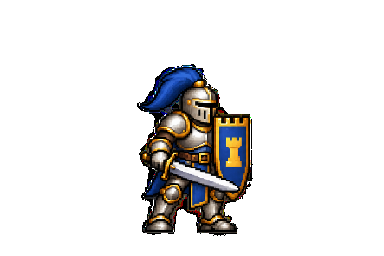
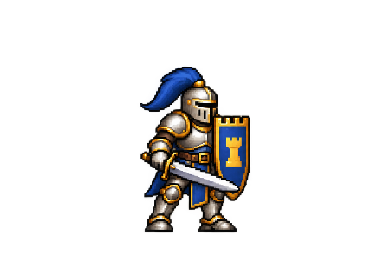
fix: restore original alpha on Blue Rook idle sprites

Changed region(s): [[0.3438, 0.25, 0.5312, 0.9375], [0.5312, 0.625, 0.6562, 0.9375], [0.5312, 0.3125, 0.6562, 0.5]]

diff --git a/web-demo/index.html b/web-demo/index.html
@@ -22,7 +22,7 @@
     </section>
     <aside class="controls">
      <div class="section-label"><span>01</span> CHOOSE YOUR CHARACTER</div>
-     <button class="character" data-character="rook" aria-pressed="false" disabled><span class="portrait blue"><img src="assets/rook-v2/idle/idle-01.png" alt=""></span><span><strong>The Blue Rook</strong><small>STEADFAST · HUMAN</small></span><span class="select-dot"></span></button>
+     <button class="character" data-character="rook" aria-pressed="false" disabled><span class="portrait blue"><img src="assets/rook-v2/idle/idle-01.png?v=alpha-restored-1" alt=""></span><span><strong>The Blue Rook</strong><small>STEADFAST · HUMAN</small></span><span class="select-dot"></span></button>
      <button class="character" data-character="knight" aria-pressed="true" disabled><span class="portrait red"><img src="assets/knight/idle/idle-01.png" alt=""></span><span><strong>The Crimson Knight</strong><small>RESTLESS · UNDEAD</small></span><span class="select-dot"></span></button>
      <button class="character" data-character="tower" aria-pressed="false" disabled><span class="portrait blue"><img src="assets/tower/idle/idle-01.png" alt=""></span><span><strong>The Royal Tower</strong><small>RESOLUTE · IVORY</small></span><span class="select-dot"></span></button>
      <button class="character" data-character="tower-black" aria-pressed="false" disabled><span class="portrait red"><img src="assets/tower-black/idle/idle-01.png" alt=""></span><span><strong>The Dread Tower</strong><small>RELENTLESS · BASALT</small></span><span class="select-dot"></span></button>

diff --git a/web-demo/game.js b/web-demo/game.js
@@ -31,11 +31,12 @@ window.__livingChessReady = (async () => {
     scenery = createCourtyardMotion(flames,flags,cleanPlate,courtyard);
     await Promise.all(['rook', 'knight', 'tower', 'tower-black'].map(async id => {
       const folder = id === 'rook' ? 'rook-v2' : id;
-      const response = await fetch(`assets/${folder}/${id.startsWith('tower') ? 'tower' : id}-animation.json`);
+      const revision = id === 'rook' ? '?v=alpha-restored-1' : '';
+      const response = await fetch(`assets/${folder}/${id.startsWith('tower') ? 'tower' : id}-animation.json${revision}`);
       if (!response.ok) throw new Error('Could not load character information.');
       const meta = await response.json(), frames = {};
       await Promise.all(Object.entries(meta.animations).map(async ([name, spec]) => {
-        frames[name] = await Promise.all(Array.from({ length: spec.frames }, (_, i) => loadImage(`assets/${folder}/${name}/${name}-${String(i + 1).padStart(2, '0')}.png`)));
+        frames[name] = await Promise.all(Array.from({ length: spec.frames }, (_, i) => loadImage(`assets/${folder}/${name}/${name}-${String(i + 1).padStart(2, '0')}.png${revision}`)));
         totalFrames += frames[name].length;
       }));
       assets[id] = { meta, frames };

diff --git a/web-demo/scripts/restore-blue-alpha.py b/web-demo/scripts/restore-blue-alpha.py
@@ -1,0 +1,113 @@
+"""Rebuild the original blue export while retaining the source transparency.
+
+The legacy exporter used an opaque connected-component selection mask as the
+sprite alpha. That made pixels with source alpha 1/255 as dark as solid ink.
+The mask here selects a frame; it never replaces the source alpha channel.
+Requires Pillow. Original generated masters are preserved, never overwritten.
+"""
+from pathlib import Path
+import argparse
+import hashlib
+import json
+from PIL import Image
+
+
+def components(alpha):
+    width, height = alpha.size
+    pixels = alpha.load()
+    seen = bytearray(width * height)
+    groups = []
+    for y in range(height):
+        for x in range(width):
+            index = y * width + x
+            if seen[index] or pixels[x, y] == 0:
+                continue
+            points, queue = [], [(x, y)]
+            seen[index] = 1
+            while queue:
+                px, py = queue.pop()
+                points.append((px, py))
+                for nx, ny in ((px-1, py), (px+1, py), (px, py-1), (px, py+1)):
+                    if 0 <= nx < width and 0 <= ny < height:
+                        ni = ny * width + nx
+                        if not seen[ni] and pixels[nx, ny]:
+                            seen[ni] = 1
+                            queue.append((nx, ny))
+            groups.append(points)
+    return groups
+
+
+def extract_row(row):
+    source_alpha = row.getchannel('A')
+    found = components(source_alpha)
+    mains = sorted(found, key=len, reverse=True)[:4]
+    assert len(mains) == 4, 'Expected four poses in each source row'
+    mains.sort(key=lambda points: sum(x for x, y in points) / len(points))
+    bounds = [(min(x for x, y in p), min(y for x, y in p),
+               max(x for x, y in p), max(y for x, y in p)) for p in mains]
+    groups = [[] for _ in range(4)]
+    for points in found:
+        if len(points) < 12:
+            continue
+        cx = sum(x for x, y in points) / len(points)
+        cy = sum(y for x, y in points) / len(points)
+        def distance(i):
+            left, top, right, bottom = bounds[i]
+            return max(left-cx, 0, cx-right)**2 + max(top-cy, 0, cy-bottom)**2
+        groups[min(range(4), key=distance)].extend(points)
+    frames = []
+    for i, points in enumerate(groups):
+        alpha = Image.new('L', row.size)
+        dest, original = alpha.load(), source_alpha.load()
+        for x, y in points:
+            dest[x, y] = original[x, y]
+        bbox = alpha.getbbox()
+        sprite = row.copy()
+        sprite.putalpha(alpha)
+        sprite = sprite.crop(bbox)
+        sprite = sprite.resize((round(sprite.width/2), round(sprite.height/2)), Image.Resampling.NEAREST)
+        x = 192 + round((bbox[0] - (i+.5)*row.width/4)/2)
+        y = 236 - sprite.height
+        frame = Image.new('RGBA', (384, 256))
+        frame.alpha_composite(sprite, (x, y))
+        frames.append(frame)
+    return frames
+
+
+def rebuild(source, output):
+    output.mkdir(parents=True, exist_ok=True)
+    report = []
+    for name in ('idle',):
+        path = source / f'blue-{name}.png'
+        master = Image.open(path)
+        assert master.mode == 'RGBA', f'{path} must retain its generated alpha'
+        split = 520 if name == 'death' else round(master.height/2)
+        frames = extract_row(master.crop((0, 0, master.width, split)))
+        frames += extract_row(master.crop((0, split, master.width, master.height)))
+        first = frames[0].getchannel('A').getbbox()
+        factor = 170/(first[3]-first[1])
+        (output/name).mkdir(exist_ok=True)
+        for i, frame in enumerate(frames):
+            bbox = frame.getchannel('A').getbbox()
+            sprite = frame.crop(bbox)
+            sprite = sprite.resize((round(sprite.width*factor), round(sprite.height*factor)), Image.Resampling.NEAREST)
+            x = 192 + round((bbox[0]-192)*factor)
+            y = 236 - sprite.height
+            assert x >= 8 and y >= 8 and x+sprite.width <= 376
+            out = Image.new('RGBA', (384, 256))
+            out.alpha_composite(sprite, (x, y))
+            target = output/name/f'{name}-{i+1:02d}.png'
+            out.save(target)
+            report.append({'file': str(target.relative_to(output)),
+                           'sha256': hashlib.sha256(target.read_bytes()).hexdigest(),
+                           'sourceSha256': hashlib.sha256(path.read_bytes()).hexdigest(),
+                           'bbox': out.getchannel('A').getbbox()})
+    (output/'alpha-restoration.json').write_text(json.dumps(report, indent=2)+'\n')
+
+
+if __name__ == '__main__':
+    parser = argparse.ArgumentParser(description=__doc__)
+    parser.add_argument('--source', required=True, type=Path, help='Folder containing original blue-*.png masters')
+    parser.add_argument('--output', required=True, type=Path, help='Folder for recovered PNG frames and source hashes')
+    args = parser.parse_args()
+    rebuild(args.source, args.output)

diff --git a/web-demo/assets/rook-v2/TRANSPARENCY.md b/web-demo/assets/rook-v2/TRANSPARENCY.md
@@ -1,0 +1,19 @@
+# Blue idle transparency repair — 2026-09-10
+
+The generated idle master contains a real alpha channel. The original exporter used connected components to select each pose, then accidentally replaced the source alpha with that binary selection mask. Pixels with alpha as low as 1/255 became fully opaque, producing the black fringe visible around the plume, shield and limbs.
+
+The eight idle PNGs now retain their original alpha values. RGB values at every visible pixel, the set of occupied pixels, frame dimensions and bounds, the shared pivot, timing and poses are unchanged. Across the eight frames, 15,804 pixels that had been made fully opaque now correctly have alpha below 128. No new artwork or colour edits were introduced. Other animation clips came from RGB masters and are unchanged.
+
+The unmodified RGBA source is preserved in `source/blue-idle.png`; `alpha-restoration.json` records source/output SHA-256 hashes and frame bounds. The before exports remain in the ignored local `output/imagegen/living-chess-pilot/rook-alpha-before/` folder.
+
+To reproduce from the repository root, using Python 3 and Pillow:
+
+```sh
+python3 web-demo/scripts/restore-blue-alpha.py \
+  --source web-demo/assets/rook-v2/source \
+  --output output/imagegen/blue-alpha-rebuilt
+```
+
+The script retains the original extraction geometry and pose grouping while copying alpha values instead of substituting 255. The browser uses a revision query on the Blue Rook assets and portrait to refresh the previously cached PNGs.
+
+Verification: all eight outputs match the previous PNG dimensions, nonzero-alpha bounds and RGB content, with no increased alpha values. Reviewed the corrected board and portrait, and reran model, interaction and combat checks with 128 loaded frames and no browser errors. Before/after evidence is in the local ignored `web-demo/test-artifacts/alpha-repair/` folder.

diff --git a/web-demo/progress.md b/web-demo/progress.md
@@ -86,3 +86,10 @@ animation playground, not a complete chess game.
 - Nine model tests pass. Existing browser smoke and new combat browser suite pass: clicking enemies/allies, pathing, attack/defeat, all four lunge directions, reset cancellation, mobile, keyboard, duel. 128 frames load, no browser errors. Reviewed combat screenshots and the prescribed game-client capture.
 - Evidence: test-artifacts/combat/validation.json, cardinal lunge captures and mobile.png. The separate user abbreviation PE is still undefined; no claim to have completed it.
 - Vercel explicit preview READY: dpl_8XBB9EJFw2FMZk58u7HP1zwQJdto at https://living-chess-steel-and-bone-ikynfwb1o-pegbo.vercel.app. Short alias https://boneboard.vercel.app updated to this deployment.
+
+## 2026-09-10 — Blue idle black-fringe repair
+
+- Traced the black jitter to the exporter's binary selection mask replacing original RGBA transparency. Restored source alpha for all eight Blue Rook idle frames; artwork RGB, dimensions, nonzero-alpha bounds, pivots and timings are unchanged. Other clips originated from RGB masters and are unchanged.
+- Preserved original idle source and reproducible repair script in the repository. Before runtime frames remain in ignored local output. Details/hashes: assets/rook-v2/TRANSPARENCY.md and alpha-restoration.json.
+- Added revision queries for Blue Rook frame/metadata loading and portrait so cached assets refresh. Source master and rebuild script are excluded from Vercel upload.
+- Nine model tests, existing interaction suite and combat suite passed with 128 frames and no browser errors. Reviewed before/after board captures and corrected close-up. Eight-frame pixel comparison confirmed original colours and placement; 15,804 formerly opaque fringe pixels recovered their low alpha.
